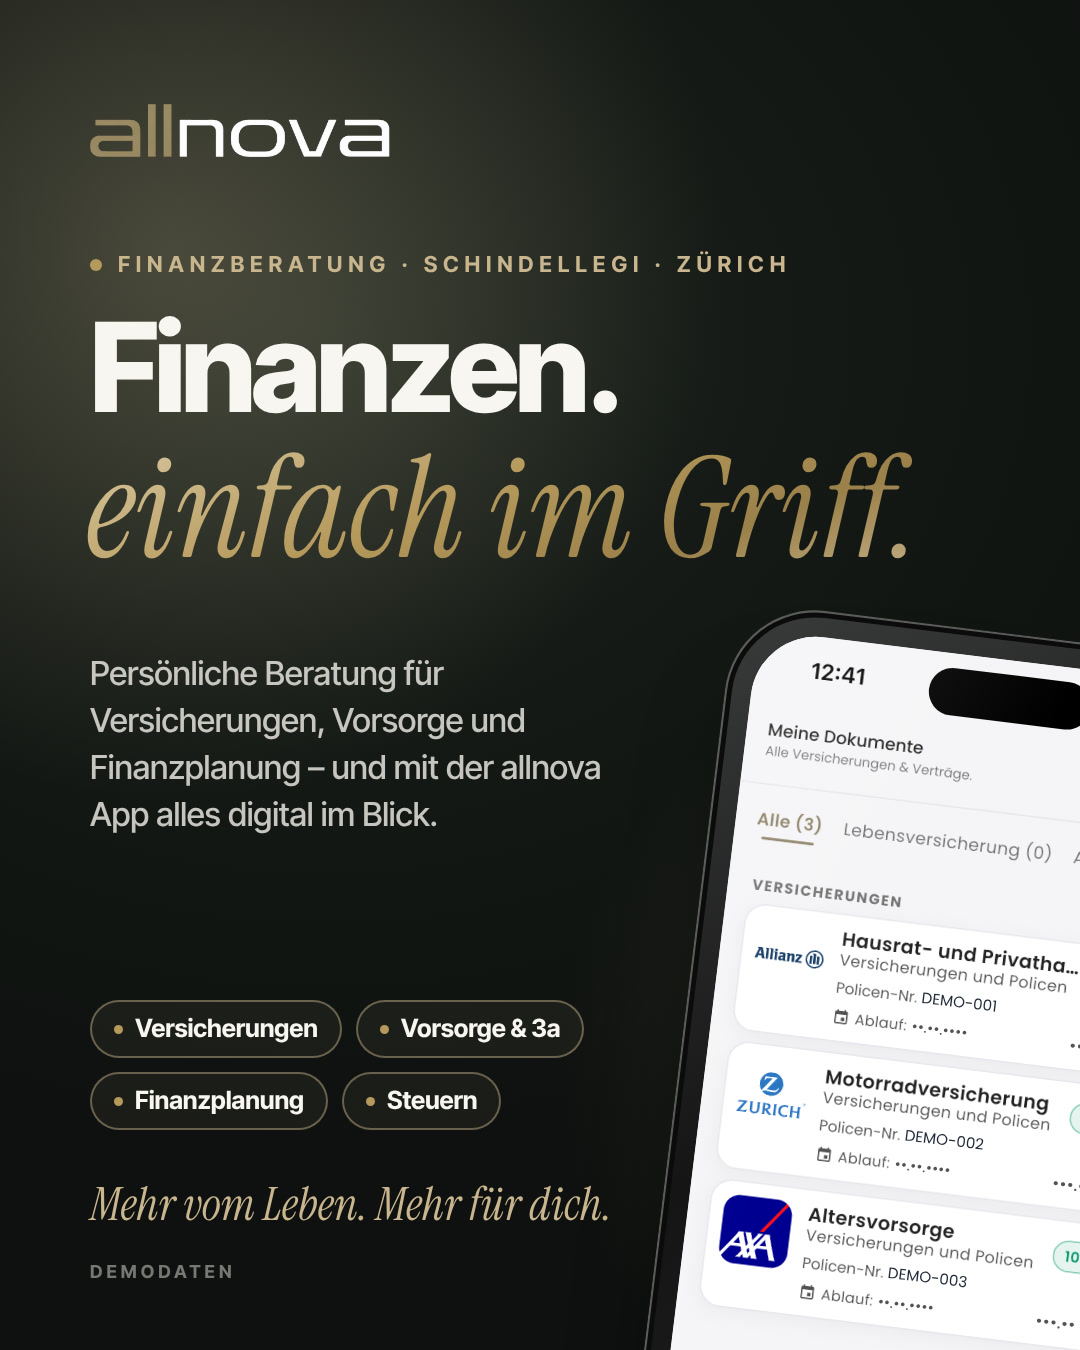
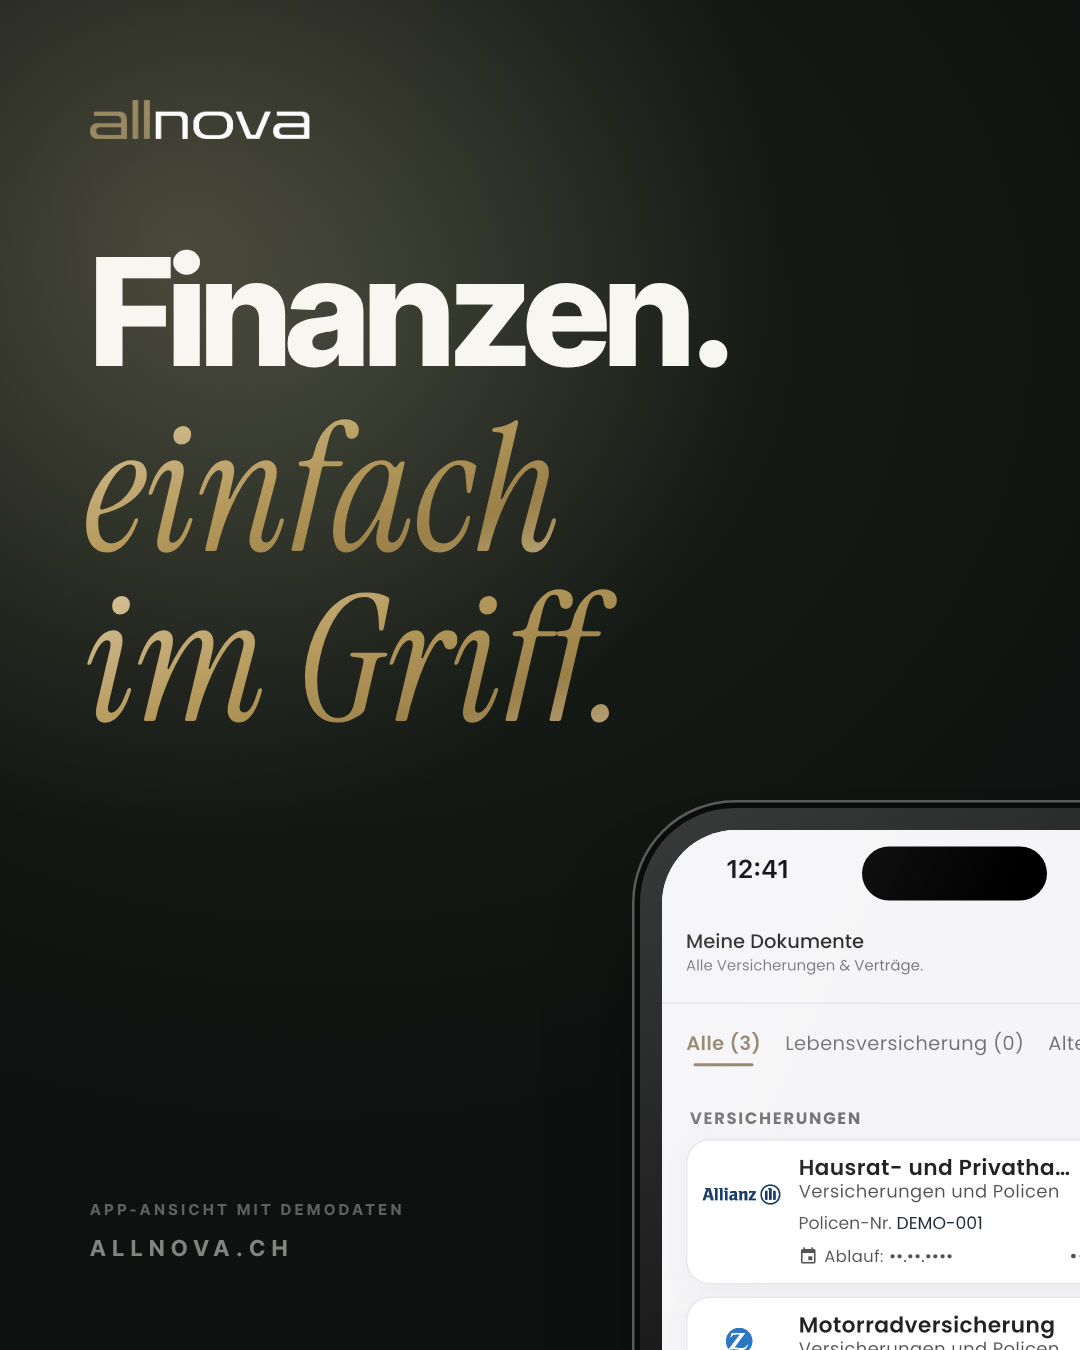
Instagram-Visuals: reduzierter, plakativer (weniger Text, gerade Telefone)
Claude-Session: https://claude.ai/code/session_01EPwibJ8KXm8GrN7qt8Mmr4

diff --git a/app-kampagne/instagram/post-rechts.html b/app-kampagne/instagram/post-rechts.html
@@ -6,66 +6,28 @@
 <link rel="stylesheet" href="../assets/base.css">
 <link rel="stylesheet" href="ig.css">
 <style>
-  .feat { position: absolute; left: 440px; top: 492px; width: 560px; display: grid; gap: 26px; }
-  .feat > div { display: grid; grid-template-columns: 62px 1fr; gap: 20px; align-items: center; }
-  .feat .ic { width: 62px; height: 62px; border-radius: 50%; display: grid; place-items: center; box-shadow: inset 0 0 0 2px rgba(201, 182, 142, .5); background: rgba(201, 182, 142, .08); }
-  .feat .ic svg { width: 30px; height: 30px; }
-  .feat .t { font-size: 30px; font-weight: 700; letter-spacing: -.012em; line-height: 1.15; color: var(--ivory); }
-  .feat .s { margin-top: 3px; font-size: 22px; font-weight: 500; color: rgba(248, 246, 240, .58); }
-  #cta { position: absolute; left: 440px; top: 1086px; font-size: 34px; font-weight: 800; letter-spacing: -.02em; color: var(--ivory); white-space: nowrap; }
-  #badges { position: absolute; left: 440px; top: 1140px; display: flex; gap: 20px; }
+  .r { right: 90px; text-align: right; }
+  #badges { position: absolute; right: 90px; top: 1166px; display: flex; gap: 18px; }
   #badges img { width: 240px; height: 80px; display: block; }
-  #fn { position: absolute; left: 440px; top: 1250px; font-size: 18px; font-weight: 500; color: rgba(248, 246, 240, .45); white-space: nowrap; }
 </style>
 </head>
 <body>
 <div id="stage" class="post dark">
-  <div class="glow" style="left:380px;top:-360px;width:1100px;height:1100px"></div>
-  <div class="glow" style="left:-420px;top:640px;width:900px;height:900px;opacity:.7"></div>
-  <div class="phone" id="ph" style="transform: translate(-300px, 250px) rotate(-7deg) scale(.44)"></div>
-
-  <div class="eyebrow" style="left:440px;top:110px"><i></i><span data-t="eyebrow"></span></div>
-  <div class="h1 fit" data-max="560" style="left:440px;top:160px" data-t="h1"></div>
-  <div class="h2 fit gold-text" data-max="590" style="left:436px;top:296px" data-t="h2"></div>
-  <div class="feat" id="feat"></div>
-  <div id="cta" data-t="cta"></div>
+  <div class="glow" style="left:300px;top:-360px;width:1200px;height:1200px"></div>
+  <img class="logo" src="../assets/brand/allnova-logo.png" alt="allnova" style="right:90px;top:100px">
+  <div class="h1 r" style="top:236px" data-t="l1"></div>
+  <div class="h2 gold-text r" style="top:404px;padding-right:0" data-t="l2"></div>
+  <div class="phone" id="ph" style="transform: translate(-197px, 800px) scale(.5)"></div>
+  <div class="sub r" style="top:1100px" data-t="sub"></div>
   <div id="badges"><img src="../assets/brand/badge-app-store.png" alt="Download on the App Store"><img src="../assets/brand/badge-google-play.png" alt="Get it on Google Play"></div>
-  <div id="fn" data-t="fn"></div>
 </div>
 <script src="phone.js"></script>
 <script>
-/* Texte — hier editieren (Funktionen gem. allnova.ch) */
-const T = {
-  eyebrow: 'Die allnova App',
-  h1: 'Alles an',
-  h2: 'einem Ort.',
-  cta: 'Jetzt kostenlos laden',
-  fn: '*Cashback je nach Angebot und Bedingungen. Ansicht mit Demodaten.',
-};
-const F = [
-  ['gift', 'Geschenkkarten', '100+ Marken, mit Cashback*'],
-  ['wallet', 'Guthaben im Blick', 'Jeder Vorteil an einem Ort'],
-  ['doc', 'Policen & Dokumente', 'Griffbereit statt Papierchaos'],
-  ['clock', 'Fristen im Blick', 'Laufzeiten und Termine'],
-  ['chat', 'Direkt zu allnova', 'Deine persönliche Beratung'],
-];
-const ICON = {
-  gift: '<rect x="4" y="10" width="22" height="16" rx="3"/><path d="M3 10h24M15 10v16M15 10c-2-5-8-6-8-2 0 2 4 2 8 2zM15 10c2-5 8-6 8-2 0 2-4 2-8 2z"/>',
-  wallet: '<rect x="4" y="8" width="22" height="17" rx="3.5"/><path d="M19 15.5h7v-4h-7a2 2 0 0 0 0 4zM8 8l9-4 2.5 4"/>',
-  doc: '<path d="M8 4h10l6 6v16H8z"/><path d="M18 4v6h6M12 15h8M12 19.5h8"/>',
-  clock: '<circle cx="15" cy="15" r="10.5"/><path d="M15 9v6.5l4.5 2.5"/>',
-  chat: '<path d="M6 7h18a2 2 0 0 1 2 2v11a2 2 0 0 1-2 2h-9l-6 4v-4H6a2 2 0 0 1-2-2V9a2 2 0 0 1 2-2z"/><path d="M10 13h10M10 17h6"/>',
-};
+/* Texte — hier editieren */
+const T = { l1: 'Alles an', l2: 'einem Ort.', sub: 'Die allnova App. Kostenlos.' };
 document.querySelectorAll('[data-t]').forEach((el) => { el.textContent = T[el.dataset.t]; });
-document.getElementById('feat').innerHTML = F.map(([i, t, s]) => `<div><span class="ic"><svg viewBox="0 0 30 30" fill="none" stroke="#d8c7a0" stroke-width="2" stroke-linecap="round" stroke-linejoin="round">${ICON[i]}</svg></span><div><div class="t">${t}</div><div class="s">${s}</div></div></div>`).join('');
 document.getElementById('ph').innerHTML = phone('entdecken');
-window.ready.then(() => {
-  document.querySelectorAll('.fit').forEach((el) => {
-    const r = document.createRange(); r.selectNodeContents(el); const w = r.getBoundingClientRect().width;
-    const max = +el.dataset.max; if (w > max) el.style.fontSize = `${parseFloat(getComputedStyle(el).fontSize) * max / w}px`;
-  });
-  document.body.dataset.ready = '1';
-});
+window.ready.then(() => { document.body.dataset.ready = '1'; });
 </script>
 </body>
 </html>

diff --git a/app-kampagne/instagram/post-links.html b/app-kampagne/instagram/post-links.html
@@ -5,51 +5,25 @@
 <title>allnova · Instagram · Post links (allnova)</title>
 <link rel="stylesheet" href="../assets/base.css">
 <link rel="stylesheet" href="ig.css">
-<style>
-  #logo { position: absolute; left: 90px; top: 104px; width: 300px; }
-  .chips { position: absolute; left: 90px; top: 1000px; width: 560px; display: flex; flex-wrap: wrap; gap: 14px; }
-  .chips span { display: inline-flex; align-items: center; gap: 12px; height: 58px; padding: 0 24px; border-radius: 29px; font-size: 25px; font-weight: 700; letter-spacing: -.005em; color: var(--ivory); box-shadow: inset 0 0 0 2px rgba(201, 182, 142, .45); background: rgba(201, 182, 142, .07); white-space: nowrap; }
-  .chips span i { width: 9px; height: 9px; border-radius: 50%; background: var(--gold); }
-  #claim { position: absolute; left: 90px; top: 1182px; font-family: var(--serif); font-style: italic; font-size: 46px; line-height: 1; white-space: nowrap; color: var(--gold-hi); }
-</style>
 </head>
 <body>
 <div id="stage" class="post dark">
-  <div class="glow" style="left:-380px;top:-300px;width:1100px;height:1100px"></div>
-  <div class="glow" style="left:560px;top:620px;width:900px;height:900px;opacity:.7"></div>
-  <div class="phone" id="ph" style="transform: translate(736px, 600px) rotate(7deg) scale(.44)"></div>
-
-  <img id="logo" src="../assets/brand/allnova-logo.png" alt="allnova">
-  <div class="eyebrow" style="left:90px;top:252px"><i></i><span data-t="eyebrow"></span></div>
-  <div class="h1 fit" data-max="900" style="left:90px;top:304px" data-t="h1"></div>
-  <div class="h2 fit gold-text" data-max="930" style="left:86px;top:440px" data-t="h2"></div>
-  <div class="body" style="left:90px;top:650px;width:540px" data-t="body"></div>
-  <div class="chips" id="chips"></div>
-  <div id="claim" data-t="claim"></div>
-  <div class="demo" style="left:90px;top:1262px" data-t="demo"></div>
+  <div class="glow" style="left:-420px;top:-360px;width:1200px;height:1200px"></div>
+  <img class="logo" src="../assets/brand/allnova-logo.png" alt="allnova" style="left:90px;top:100px">
+  <div class="h1" style="left:90px;top:236px" data-t="l1"></div>
+  <div class="h2 gold-text" style="left:84px;top:404px" data-t="l2"></div>
+  <div class="h2 gold-text" style="left:84px;top:574px" data-t="l3"></div>
+  <div class="phone" id="ph" style="transform: translate(632px, 800px) scale(.5)"></div>
+  <div class="foot" style="left:90px;top:1236px" data-t="url"></div>
+  <div class="foot" style="left:90px;top:1200px;font-size:15px;letter-spacing:.24em;opacity:.7" data-t="demo"></div>
 </div>
 <script src="phone.js"></script>
 <script>
 /* Texte — hier editieren */
-const T = {
-  eyebrow: 'Finanzberatung · Schindellegi · Zürich',
-  h1: 'Finanzen.',
-  h2: 'einfach im Griff.',
-  body: 'Persönliche Beratung für Versicherungen, Vorsorge und Finanzplanung – und mit der allnova App alles digital im Blick.',
-  chips: ['Versicherungen', 'Vorsorge & 3a', 'Finanzplanung', 'Steuern'],
-  claim: 'Mehr vom Leben. Mehr für dich.',
-  demo: 'Demodaten',
-};
+const T = { l1: 'Finanzen.', l2: 'einfach', l3: 'im Griff.', url: 'allnova.ch', demo: 'App-Ansicht mit Demodaten' };
 document.querySelectorAll('[data-t]').forEach((el) => { el.textContent = T[el.dataset.t]; });
-document.getElementById('chips').innerHTML = T.chips.map((c) => `<span><i></i>${c}</span>`).join('');
 document.getElementById('ph').innerHTML = phone('dokumente');
-window.ready.then(() => {
-  document.querySelectorAll('.fit').forEach((el) => {
-    const r = document.createRange(); r.selectNodeContents(el); const w = r.getBoundingClientRect().width;
-    const max = +el.dataset.max; if (w > max) el.style.fontSize = `${parseFloat(getComputedStyle(el).fontSize) * max / w}px`;
-  });
-  document.body.dataset.ready = '1';
-});
+window.ready.then(() => { document.body.dataset.ready = '1'; });
 </script>
 </body>
 </html>

diff --git a/app-kampagne/instagram/reel-cover.html b/app-kampagne/instagram/reel-cover.html
@@ -7,35 +7,23 @@
 <link rel="stylesheet" href="ig.css">
 <style>
   /* Im Profilraster sichtbar: mittlerer 3:4-Ausschnitt (y ≈ 240–1680) */
-  #logo { position: absolute; left: 360px; top: 300px; width: 360px; }
   .c { left: 0; width: 1080px; text-align: center; }
-  .fl { position: absolute; width: 544px; transform-origin: 50% 50%; filter: drop-shadow(0 40px 50px rgba(48, 38, 14, .28)); }
 </style>
 </head>
 <body>
 <div id="stage" class="cover light">
-  <div class="glow" style="left:-420px;top:200px;width:1200px;height:1200px"></div>
-  <div class="glow" style="left:300px;top:1000px;width:1300px;height:1300px;opacity:.8"></div>
-  <img class="fl" src="../teaser/img/tile-migros.png" alt="" style="left:-150px;top:1010px;transform:rotate(-9deg) scale(.4)">
-  <img class="fl" src="../teaser/img/tile-coop.png" alt="" style="left:690px;top:1270px;transform:rotate(8deg) scale(.4)">
-  <div class="phone" id="ph" style="transform: translate(282px, 760px) scale(.4)"></div>
-  <img id="logo" src="../assets/brand/allnova-logo-hell.png" alt="allnova">
-  <div class="eyebrow" style="left:0;width:1080px;justify-content:center;top:452px"><i></i><span data-t="eyebrow"></span></div>
-  <div class="h1 c fit" data-max="900" style="top:500px" data-t="h1"></div>
-  <div class="h2 c fit gold-text" data-max="900" style="top:628px;padding:0" data-t="h2"></div>
+  <div class="glow" style="left:-60px;top:500px;width:1200px;height:1200px;opacity:.8"></div>
+  <img class="logo" src="../assets/brand/allnova-logo-hell.png" alt="allnova" style="left:430px;top:300px">
+  <div class="h1 c" style="top:420px" data-t="l1"></div>
+  <div class="h2 gold-text c" style="top:592px;padding:0;font-size:148px" data-t="l2"></div>
+  <div class="phone" id="ph" style="transform: translate(243px, 820px) scale(.46)"></div>
 </div>
 <script src="phone.js"></script>
 <script>
-const T = { eyebrow: 'Die allnova App', h1: 'Mehr für dich.', h2: 'Jetzt entdecken.' };
+const T = { l1: 'Mehr für dich.', l2: 'Die allnova App.' };
 document.querySelectorAll('[data-t]').forEach((el) => { el.textContent = T[el.dataset.t]; });
 document.getElementById('ph').innerHTML = phone('entdecken');
-window.ready.then(() => {
-  document.querySelectorAll('.fit').forEach((el) => {
-    const r = document.createRange(); r.selectNodeContents(el); const w = r.getBoundingClientRect().width;
-    const max = +el.dataset.max; if (w > max) el.style.fontSize = `${parseFloat(getComputedStyle(el).fontSize) * max / w}px`;
-  });
-  document.body.dataset.ready = '1';
-});
+window.ready.then(() => { document.body.dataset.ready = '1'; });
 </script>
 </body>
 </html>

diff --git a/app-kampagne/instagram/ig.css b/app-kampagne/instagram/ig.css
@@ -12,8 +12,8 @@ html, body { margin: 0; background: #0d0d0e; }
 .eyebrow { position: absolute; display: flex; align-items: center; gap: 16px; font-size: 22px; font-weight: 700; letter-spacing: .26em; text-transform: uppercase; color: var(--gold-hi); white-space: nowrap; }
 .eyebrow i { width: 12px; height: 12px; border-radius: 50%; background: var(--gold); }
 .light .eyebrow { color: var(--gold-lo); }
-.h1 { position: absolute; font-size: 124px; font-weight: 800; letter-spacing: -.04em; line-height: 1.02; white-space: nowrap; }
-.h2 { position: absolute; font-family: var(--serif); font-style: italic; font-size: 140px; line-height: 1; white-space: nowrap; padding-right: 30px; }
+.h1 { position: absolute; font-size: 150px; font-weight: 800; letter-spacing: -.04em; line-height: 1.02; white-space: nowrap; }
+.h2 { position: absolute; font-family: var(--serif); font-style: italic; font-size: 176px; line-height: 1; white-space: nowrap; padding-right: 30px; }
 .body { position: absolute; font-size: 33px; line-height: 1.42; font-weight: 500; letter-spacing: -.005em; color: rgba(248, 246, 240, .78); }
 .light .body { color: var(--ink-3); }
 
@@ -32,3 +32,7 @@ html, body { margin: 0; background: #0d0d0e; }
 .ov-prem { font-size: 36px; font-weight: 500; color: #525252; text-align: right; }
 .demo { position: absolute; font-size: 18px; font-weight: 700; letter-spacing: .22em; text-transform: uppercase; color: rgba(248, 246, 240, .45); white-space: nowrap; }
 .light .demo { color: var(--muted); }
+
+.logo { position: absolute; width: 220px; }
+.foot { position: absolute; font-size: 22px; font-weight: 700; letter-spacing: .3em; text-transform: uppercase; color: rgba(248, 246, 240, .5); white-space: nowrap; }
+.sub { position: absolute; font-size: 30px; font-weight: 600; letter-spacing: -.005em; color: rgba(248, 246, 240, .72); white-space: nowrap; }
